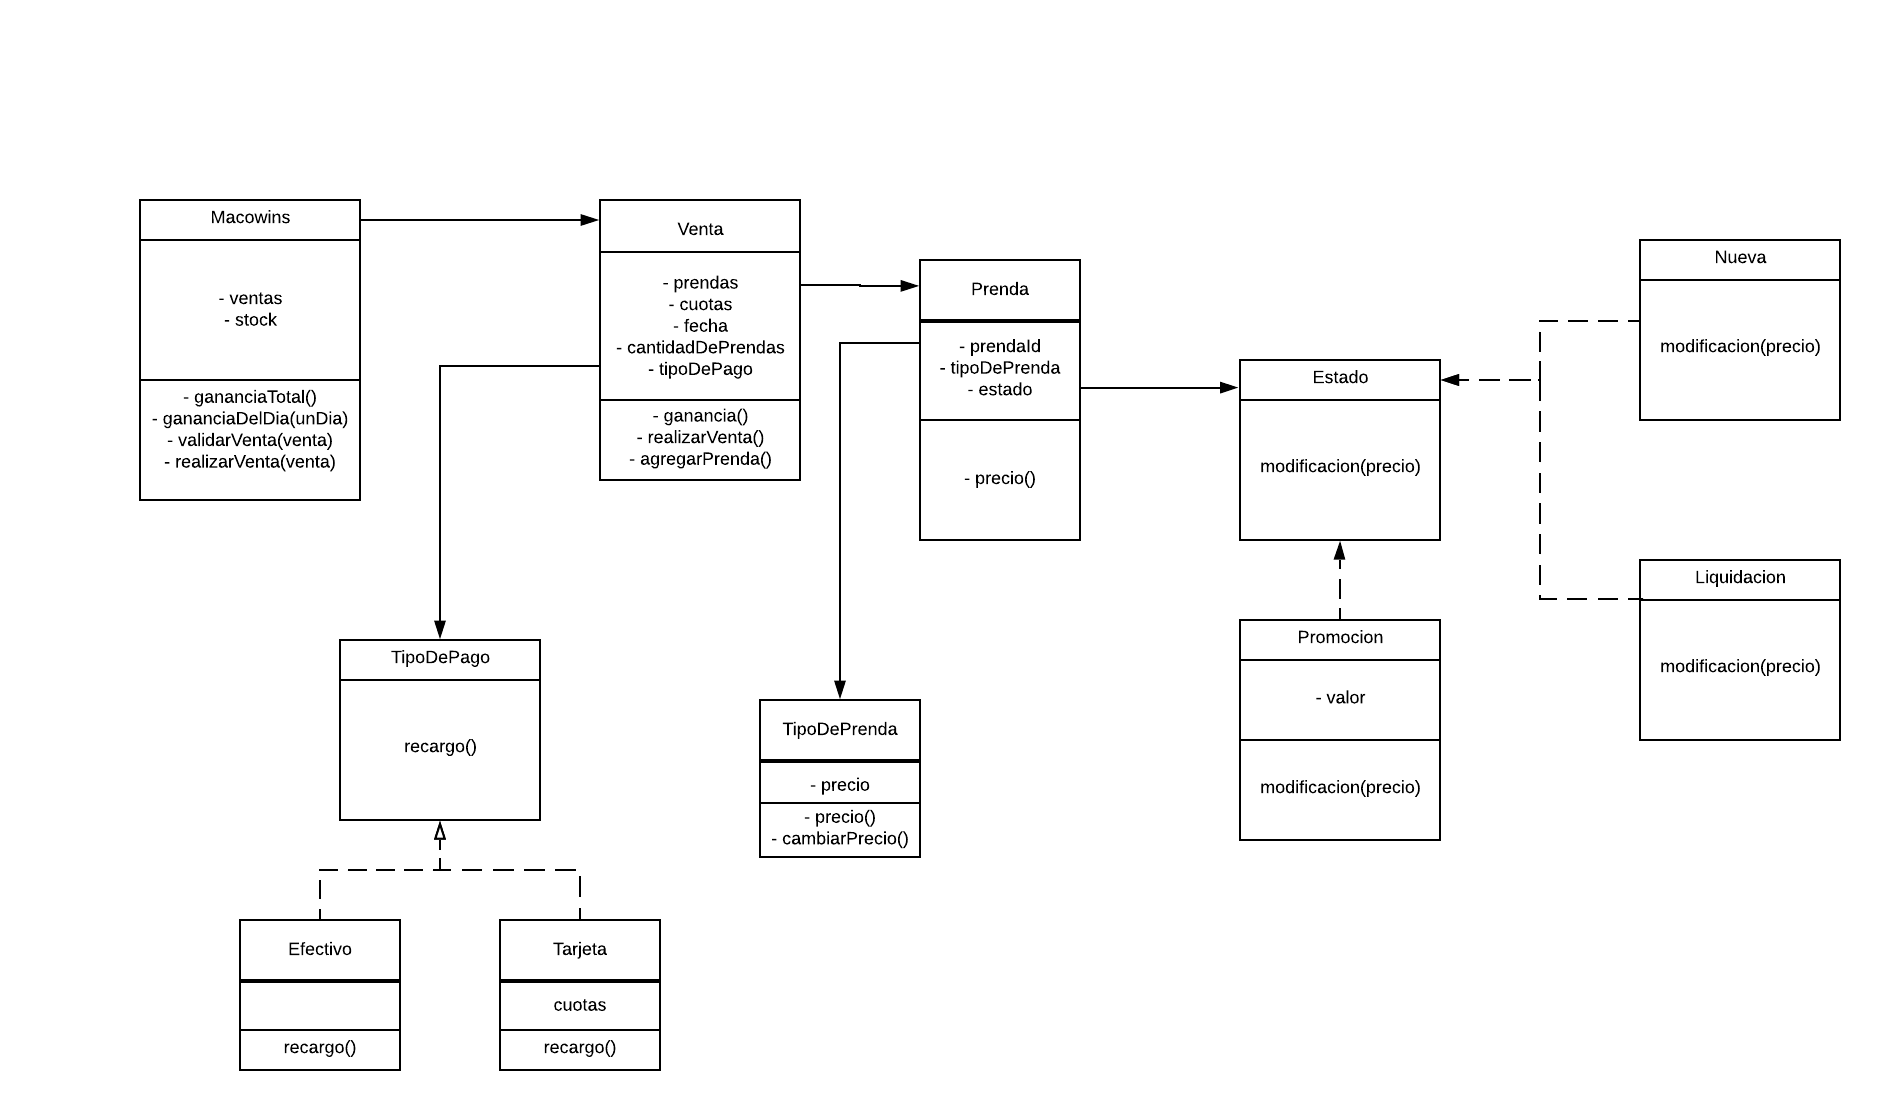
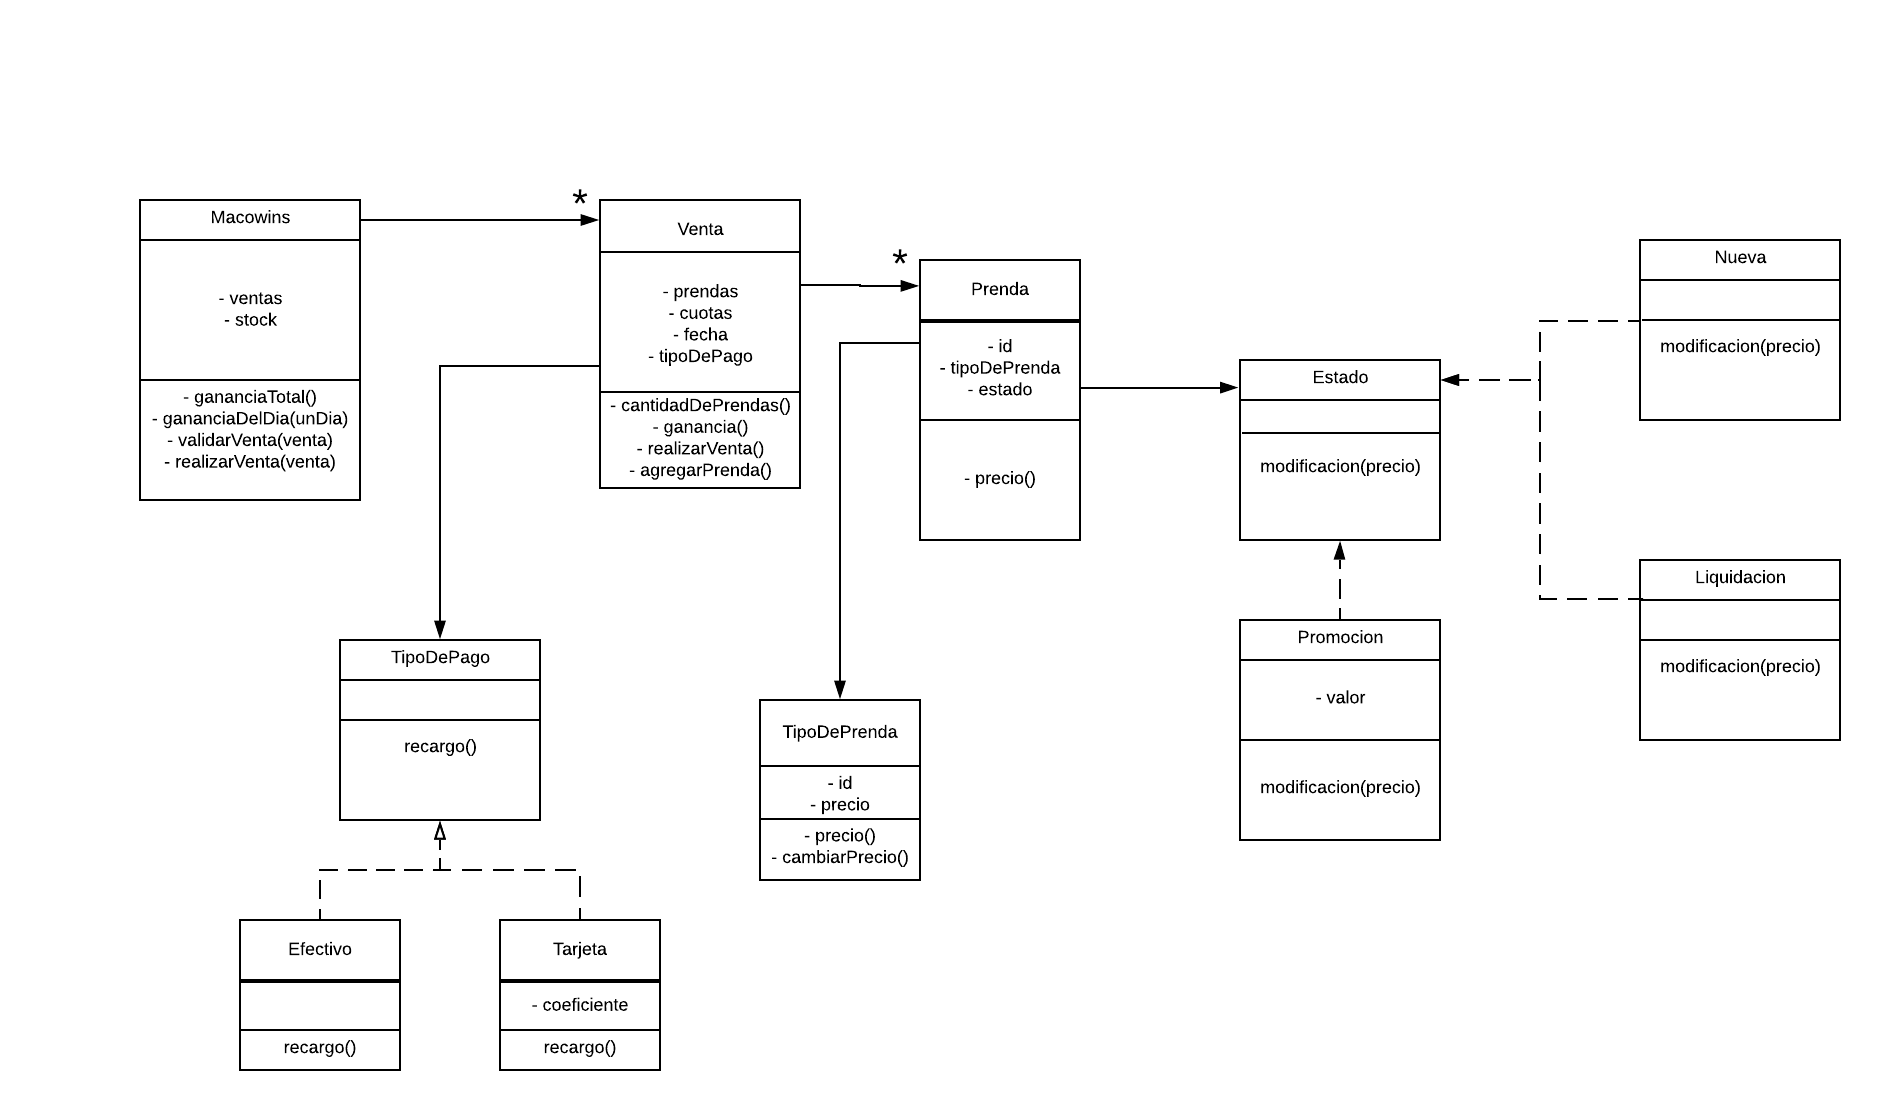
Corrijo y amplio la resolucion

diff --git a/Macowins.java b/Macowins.java
@@ -11,26 +11,24 @@ class Macowins{
         this.ventas = new LinkedList<>();
     }
 
-    private float gananciaDeVentas(List<Venta> unasVentas){
+    private double gananciaDeVentas(List<Venta> unasVentas){
         return ventas.map( venta -> venta.ganacia() ).sum();
     }
 
-    public float gananciaTotal(){
+    public double gananciaTotal(){
         return gananciaDeVentas(ventas);
     }
 
-    public float gananciaDeDia(Date unDia){
+    public double gananciaDelDia(Date unDia){
         return gananciaDeVentas(filtrarVentasPorFecha(unDia));
     }
 
-    private boolean hayStock(){
-        return true;
+    private boolean hayStock(int unaCantidad){
+        return stock>=unaCantidad;
     }
 
     public boolean validarVenta(Venta venta){
-        if(hayStock()){
-        return venta.cantidadDePrendas() >= stock;
-        }
+        return hayStock(venta.cantidadDePrendas());
     }
 
     public realizarVenta(Venta venta){
@@ -44,10 +42,11 @@ class Macowins{
 
 
 class Venta{
+    List<Prenda> prendas;
     int cuotas;
     TipoDePago tipoDePago;
     Date fecha;
-    List<Prenda> prendas;
+    
     
     Venta(TipoDePago unTipoDePago,int cuotas){
         this.tipoDePago = unTipoDePago;
@@ -56,7 +55,10 @@ class Venta{
         this.prendas = new List();
     }
 
-    private int cuotas(){
+    public int cantidadDePrendas(){
+        return ventas.size();    }
+
+    private int getCuotas(){
         return cuotas;
     }
 
@@ -75,16 +77,20 @@ class Venta{
     }
 
 
-    public float ganacia(){
+    public double ganacia(){
         return this.valorTotalPrendas() + tipoDePago.recargo(this);
     }
-    private float valorTotalDePrendas(){
+    private double valorTotalDePrendas(){
         return prendas.map(prenda -> prenda.precio()).sum();
     }
 
 class Prenda{
+    public static int prendaId=0;
     TipoDePrenda tipoDePrenda;
     Estado estado;
+    Prenda(){
+        this.id=Prenda.prendaId++;
+    }
 
     public precio(){
         return estado.modificacion(tipoDePrenda.precio());
@@ -92,53 +98,60 @@ class Prenda{
 }
 
 class TipoDePrenda{
-    public static int prendaId;
-    TipoDePrenda(float precio){
-        this.id=TipoDePrenda.prendaId;
-        TipoDePrenda.prendaId++;
+    public static int tipoPrendaId=0;
+    int id;
+    double precio;
+    TipoDePrenda(double precio){
+        this.id=TipoDePrenda.prendaId++;
         this.precio=precio;
     }
-    float precio;
-    public float precio(){
+    
+    public double precio(){
         return precio;
     }
 
-    public void cambiarPrecio(float unPrecio){
+    public void cambiarPrecio(double unPrecio){
         precio=unPrecio;
     }
 }
 
+interface Estado{
+    modificacion(double unPrecio);
+}
 
-class Nueva{
-    public modificacion(float unPrecio){
+class Nueva extends Estado{
+    public modificacion(double unPrecio){
         return unPrecio;
     }
 }
 
-class Promocion{
-    float valor;
+class Promocion extends Estado{
+    double valor;
     
-    public modificacion(float unPrecio){
+    public modificacion(double unPrecio){
         return unPrecio-valor;
     }
 }      
 
-class Liquidacion{
-    public modificacion(float unPrecio){
+class Liquidacion extends Estado{
+    public modificacion(double unPrecio){
         return unPrecio*0.5;
     }
 }
 
+interface TipoDePago{
+    recargo(Venta venta);
+}
 
-class Tarjeta{
-    float coeficiente;
-    public float recargo(Venta venta){
+class Tarjeta extends TipoDePago{
+    double coeficiente;
+    public double recargo(Venta venta){
         return venta.cuotas() * coeficiente + 0.01 * venta.valorTotalDePrendas();
     }
 }
 
-class Efectivo{
-    public float recargo(Venta venta){
+class Efectivo extends TipoDePago{
+    public double recargo(Venta venta){
         return 0;
     }
 }
@@ -157,8 +170,22 @@ REQUERIMIENTOS NO FUNCIONALES: No encontra ninguno
 
 
 Aclaraciones:
-/// Los pagos en Efectivo se anotan con cuota=1.
-/// Descarte la codificacion de todos los getters y setters que no se hacen uso.
+///Los pagos en Efectivo se anotan con cuota=1.
+
+///Descarte la codificacion de todos los getters y setters que no se hacen uso.
+
+///En la clase Macowins declare un metodo de hayStock que retorna siempre un true.
+ Se da por entender que si hay stock, se valida la venta. Lo deje permanentemente 
+ true ya que queria incluir esa consideracion al sistema y como no se tienen en cuenta dentro del contexto
+de la situacion asumi stock infinito.
+
+///Considere Macowins como una clase, de esta forma se podria asumir que cada clase Macowins es un
+local de Macowins. Capaz de momento no seria necesario pero a futuro probablemente seria conveniente
+si se implenta el sistema a una escala mayor.
+
+/// No tome en cuenta las transferencias bancarias ni las constaciones de los pagos en efectivo, no las
+considere como parte del sistema. Solamente las tome en cuenta para la ganancia neta de la empresa.
+
 
 
 */
